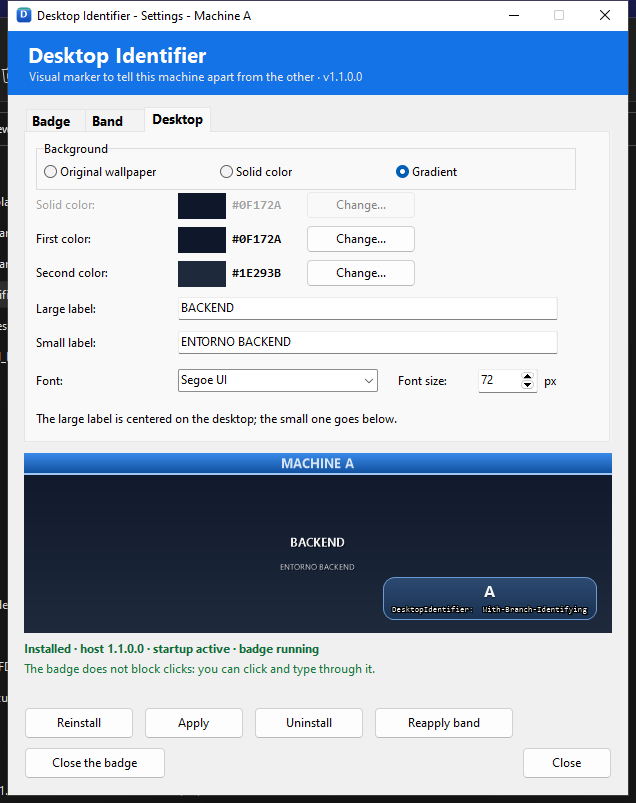
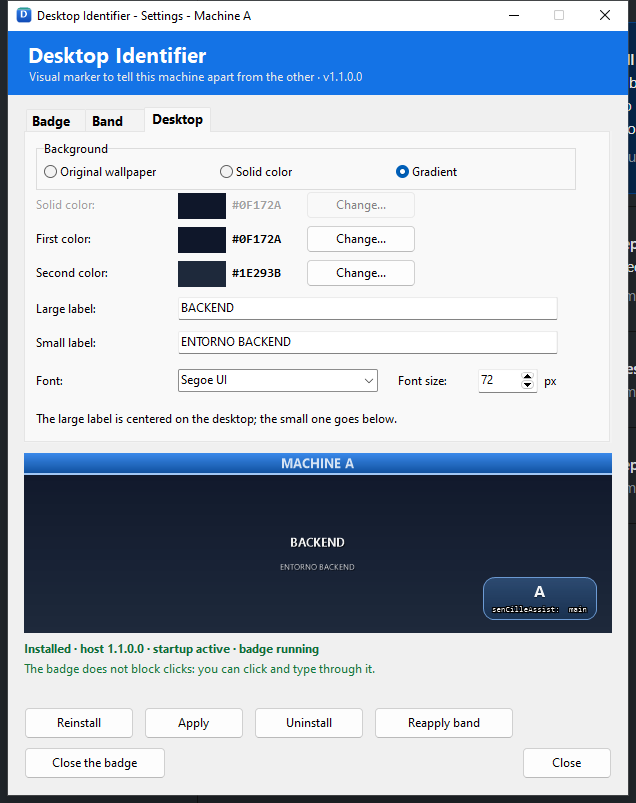
Update repository badge documentation
Clarify branch-line examples and update the related documentation screenshots.

diff --git a/README.md b/README.md
@@ -62,10 +62,11 @@ square and `DESKTOP-A` becomes a wide pill that shows the whole word.
 ### The repository and branch line
 
 If you set a **Repository folder** in the Badge tab, the badge gets a second,
-smaller line:
+smaller line. For example, with the repository at
+`C:\Views\senCilleAssist` on branch `main`:
 
 ```text
-DesktopIdentifier:  With-Branch-Identifying
+senCilleAssist:  main
 ```
 
 - It shows the **last folder name** of the repository and the **current branch**.
@@ -228,7 +229,7 @@ optional repository folder:
 ```ini
 [cartel]
 texto=A
-repo=C:\Views\DesktopIdentifier
+repo=C:\Views\senCilleAssist
 ```
 
 `repo` is the repository root; leave it empty to hide the second line. The branch
